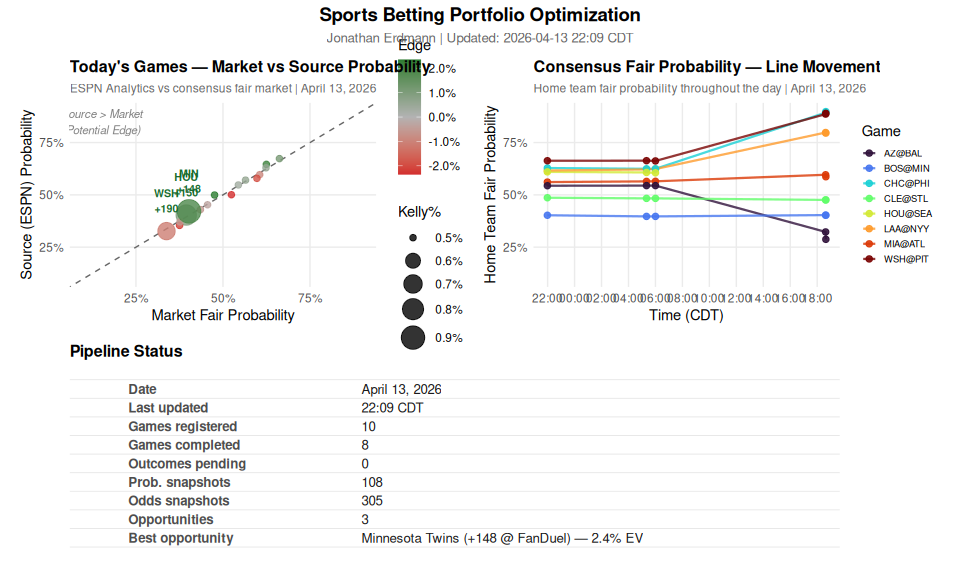
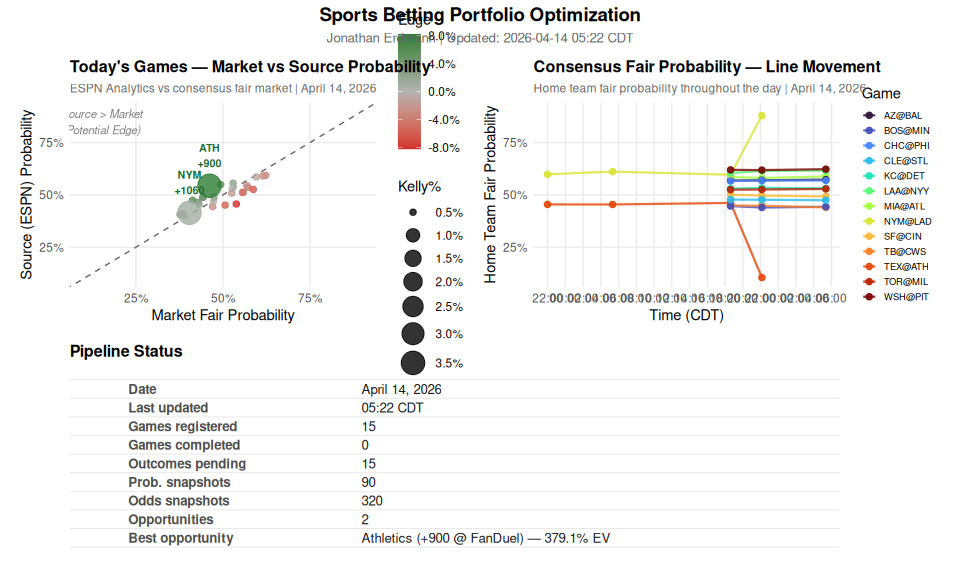
Update dashboard: 2026-04-14 05:22

diff --git a/projects/portfolio-optimization/dashboard.md b/projects/portfolio-optimization/dashboard.md
@@ -6,7 +6,7 @@ permalink: /projects/portfolio-optimization/dashboard/
 
 ## Daily Pipeline Dashboard
 
-**Last updated:** April 13, 2026 22:09 CDT
+**Last updated:** April 14, 2026 05:22 CDT
 
 ---
 
@@ -14,9 +14,8 @@ permalink: /projects/portfolio-optimization/dashboard/
 
 | Team | ML | Market% | Posterior% | EV% | Kelly% | Bet by | Book |
 |---|---|---|---|---|---|---|---|
-| Minnesota Twins | +148 | 39.7% | 41.3% | 2.4% | 0.41% | 16:40 CDT | FanDuel |
-| Houston Astros | +150 | 39.3% | 40.7% | 1.6% | 0.27% | 13:10 CDT | BetMGM |
-| Washington Nationals | +190 | 33.7% | 34.9% | 1.3% | 0.17% | 15:40 CDT | BetRivers |
+| Athletics | +900 | 46.1% | 47.9% | 379.1% | 3.00% | 18:40 CDT | FanDuel |
+| New York Mets | +1060 | 40.4% | 39.7% | 360.2% | 3.00% | 19:10 CDT | FanDuel |
 
 ---
 
